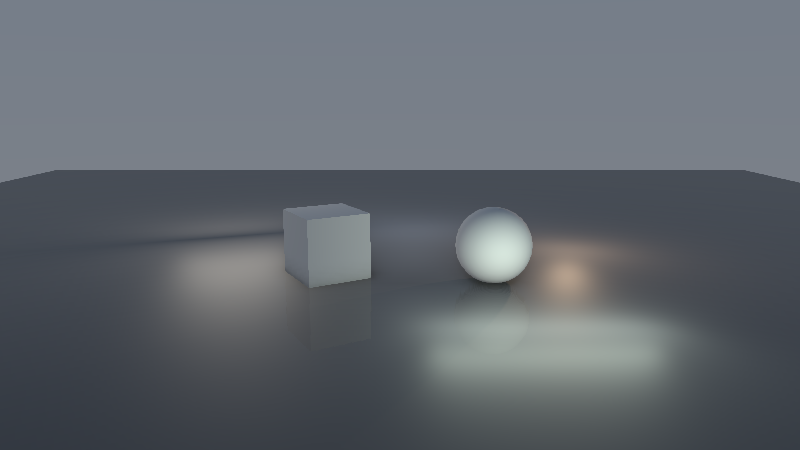
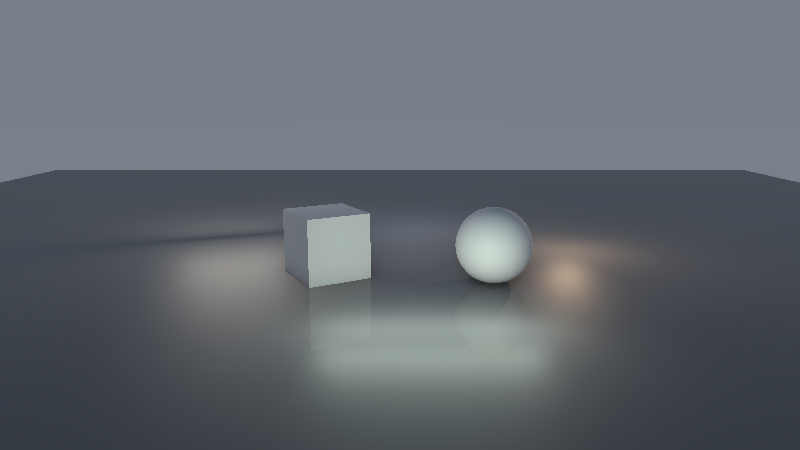
Add the cylinder fix to the render test page
A new step compares the area light scene path traced before (a0f8a68) and
after 3a5b8a8, and against realtime. The area light step is re-rendered
against the corrected path tracer, and its notes now record what still
differs: the orb's floor reflection, brighter in realtime, and the near
floor, darker without bounce light.

diff --git a/docs/render-tests/data.js b/docs/render-tests/data.js
@@ -583,14 +583,14 @@ window.RENDER_TESTS = {
    "title": "Area lights (LTC)",
    "commit": "a0f8a68",
    "summary": "Quad, disc, sphere and cylinder lights are integrated over their shapes with linearly transformed cosines fitted to Lumbre's own GGX. Before, each was a single point carrying its area.",
-   "rendered_at": "2026-11-12 20:00",
-   "rendered_from": "a0f8a68",
+   "rendered_at": "2026-11-12 20:05",
+   "rendered_from": "3a5b8a8",
    "cases": [
     {
      "id": "shapes",
      "title": "One light of each shape over a glossy floor",
      "scene": "assets/render_tests/area_lights.usda",
-     "look_for": "Before, the floor shows hot pinpoint reflections and the matte objects are over-lit up close. After, reflections should spread into soft pools shaped by each light, and brightness should track the path tracer. The panel (left) and the orb (right) should be close. The tube along the front looks about half as bright as the reference, which mostly shows on the ball and on the floor in front. That gap is a path tracer bug: it counts the tube's far side as visible. The importer also places the tube by its end, so it sits shifted to the right in both renderers.",
+     "look_for": "Before, the floor shows hot pinpoint reflections and the matte objects are over-lit up close. After, reflections should spread into soft pools shaped by each light, and brightness should track the path tracer. The panel (left) and tube (front) are close. The orb's reflection on the floor reads brighter in realtime, and the near floor darker, since realtime has no bounce light. When a0f8a68 landed, the path tracer drew the tube twice as bright and both renderers shifted it right; 3a5b8a8 fixed both. See the next step.",
      "compare": [
       [
        "before",
@@ -611,51 +611,51 @@ window.RENDER_TESTS = {
        "label": "Before (a6d16b1)",
        "image": "images/area-lights--shapes--before.png",
        "rev": "a6d16b1",
-       "seconds": 0.31,
+       "seconds": 0.34,
        "passes": [
         [
          "Clusters",
-         1.158
+         1.146
         ],
         [
          "Shadows",
-         1.277
+         3.542
         ],
         [
          "GBuffer",
-         0.816
+         1.29
         ],
         [
          "AO",
-         0.904
+         1.17
         ],
         [
          "Lighting",
-         2.957
+         6.209
         ],
         [
          "HiZ",
-         1.386
+         1.221
         ],
         [
          "SSR",
-         0.789
+         1.029
         ],
         [
          "Forward",
-         0.012
+         0.053
         ],
         [
          "Display",
-         0.381
+         0.798
         ],
         [
          "FXAA",
-         0.538
+         0.416
         ],
         [
          "total",
-         10.221
+         16.872
         ]
        ],
        "frames": 1,
@@ -665,48 +665,52 @@ window.RENDER_TESTS = {
        "id": "after",
        "label": "After",
        "image": "images/area-lights--shapes--after.png",
-       "rev": "a0f8a68",
-       "seconds": 0.29,
+       "rev": "3a5b8a8",
+       "seconds": 0.33,
        "passes": [
         [
          "Clusters",
-         0.956
+         1.709
         ],
         [
          "Shadows",
-         1.252
+         1.745
         ],
         [
          "GBuffer",
-         1.035
+         1.295
         ],
         [
          "AO",
-         0.895
+         1.153
         ],
         [
          "Lighting",
-         3.537
+         6.248
         ],
         [
          "HiZ",
-         0.839
+         1.131
         ],
         [
          "SSR",
-         0.881
+         1.331
+        ],
+        [
+         "Forward",
+         0.004
         ],
         [
          "Display",
-         0.414
+         0.413
         ],
         [
          "FXAA",
-         0.444
+         0.466
         ],
         [
          "total",
-         10.253
+         15.495
         ]
        ],
        "frames": 1,
@@ -716,11 +720,110 @@ window.RENDER_TESTS = {
        "id": "reference",
        "label": "Path traced, 512 spp",
        "image": "images/area-lights--shapes--reference.png",
-       "rev": "a0f8a68",
-       "seconds": 1.31,
+       "rev": "3a5b8a8",
+       "seconds": 1.28,
        "passes": [],
        "frames": 0,
        "command": "lumbre -s assets/render_tests/area_lights.usda -w 800 -h 450 --spp 512"
+      }
+     ]
+    }
+   ]
+  },
+  {
+   "id": "cylinder-fix",
+   "title": "Cylinder lights: facing half, centred",
+   "commit": "3a5b8a8",
+   "summary": "The path tracer lit from the whole surface of a cylinder light, seeing its far side through the near one, which doubled its light. The USD importer also placed the tube by its end instead of its centre. Both are fixed, in the CPU and GPU path tracers and in the import both renderers share.",
+   "rendered_at": "2026-11-12 20:05",
+   "rendered_from": "3a5b8a8",
+   "cases": [
+    {
+     "id": "tube",
+     "title": "The area light scene's tube, path traced",
+     "scene": "assets/render_tests/area_lights.usda",
+     "look_for": "Before, the tube's light on the ball and floor is about twice as bright, and its pool sits to the right. After, it is centred under the tube and roughly halved, and the realtime render matches it. The rect, disk and sphere lights should not change at all.",
+     "compare": [
+      [
+       "before",
+       "after"
+      ],
+      [
+       "realtime",
+       "after"
+      ]
+     ],
+     "variants": [
+      {
+       "id": "before",
+       "label": "Path traced before (a0f8a68)",
+       "image": "images/cylinder-fix--tube--before.png",
+       "rev": "a0f8a68",
+       "seconds": 1.22,
+       "passes": [],
+       "frames": 0,
+       "command": "lumbre -s assets/render_tests/area_lights.usda -w 800 -h 450 --spp 512"
+      },
+      {
+       "id": "after",
+       "label": "Path traced after",
+       "image": "images/cylinder-fix--tube--after.png",
+       "rev": "3a5b8a8",
+       "seconds": 1.34,
+       "passes": [],
+       "frames": 0,
+       "command": "lumbre -s assets/render_tests/area_lights.usda -w 800 -h 450 --spp 512"
+      },
+      {
+       "id": "realtime",
+       "label": "Realtime after",
+       "image": "images/cylinder-fix--tube--realtime.png",
+       "rev": "3a5b8a8",
+       "seconds": 0.31,
+       "passes": [
+        [
+         "Clusters",
+         0.906
+        ],
+        [
+         "Shadows",
+         1.174
+        ],
+        [
+         "GBuffer",
+         0.875
+        ],
+        [
+         "AO",
+         1.105
+        ],
+        [
+         "Lighting",
+         3.168
+        ],
+        [
+         "HiZ",
+         1.102
+        ],
+        [
+         "SSR",
+         0.566
+        ],
+        [
+         "Display",
+         0.663
+        ],
+        [
+         "FXAA",
+         0.332
+        ],
+        [
+         "total",
+         9.891
+        ]
+       ],
+       "frames": 1,
+       "command": "lumbre -s assets/render_tests/area_lights.usda -w 800 -h 450 --raster"
       }
      ]
     }

diff --git a/scripts/render_tests.py b/scripts/render_tests.py
@@ -148,12 +148,11 @@ STEPS = [
                     "Before, the floor shows hot pinpoint reflections and the matte "
                     "objects are over-lit up close. After, reflections should spread "
                     "into soft pools shaped by each light, and brightness should track "
-                    "the path tracer. The panel (left) and the orb (right) should be close. "
-                    "The tube along the front looks about half as bright as the "
-                    "reference, which mostly shows on the ball and on the floor in "
-                    "front. That gap is a path tracer bug: it counts the tube's far side "
-                    "as visible. The importer also places the tube by its end, so it "
-                    "sits shifted to the right in both renderers."
+                    "the path tracer. The panel (left) and tube (front) are close. The "
+                    "orb's reflection on the floor reads brighter in realtime, and the "
+                    "near floor darker, since realtime has no bounce light. When a0f8a68 landed, the path tracer drew the "
+                    "tube twice as bright and both renderers shifted it right; 3a5b8a8 "
+                    "fixed both. See the next step."
                 ),
                 "variants": [
                     {"id": "before", "label": "Before (a6d16b1)", "args": ["--raster"], "rev": "a6d16b1"},
@@ -161,6 +160,37 @@ STEPS = [
                     {"id": "reference", "label": "Path traced, 512 spp", "args": ["--spp", "512"]},
                 ],
                 "compare": [["before", "after"], ["after", "reference"], ["before", "reference"]],
+            },
+        ],
+    },
+    {
+        "id": "cylinder-fix",
+        "title": "Cylinder lights: facing half, centred",
+        "commit": "3a5b8a8",
+        "summary": (
+            "The path tracer lit from the whole surface of a cylinder light, seeing "
+            "its far side through the near one, which doubled its light. The USD "
+            "importer also placed the tube by its end instead of its centre. Both "
+            "are fixed, in the CPU and GPU path tracers and in the import both "
+            "renderers share."
+        ),
+        "cases": [
+            {
+                "id": "tube",
+                "title": "The area light scene's tube, path traced",
+                "scene": "assets/render_tests/area_lights.usda",
+                "look_for": (
+                    "Before, the tube's light on the ball and floor is about twice as "
+                    "bright, and its pool sits to the right. After, it is centred under "
+                    "the tube and roughly halved, and the realtime render matches it. "
+                    "The rect, disk and sphere lights should not change at all."
+                ),
+                "variants": [
+                    {"id": "before", "label": "Path traced before (a0f8a68)", "args": ["--spp", "512"], "rev": "a0f8a68"},
+                    {"id": "after", "label": "Path traced after", "args": ["--spp", "512"]},
+                    {"id": "realtime", "label": "Realtime after", "args": ["--raster"]},
+                ],
+                "compare": [["before", "after"], ["realtime", "after"]],
             },
         ],
     },
